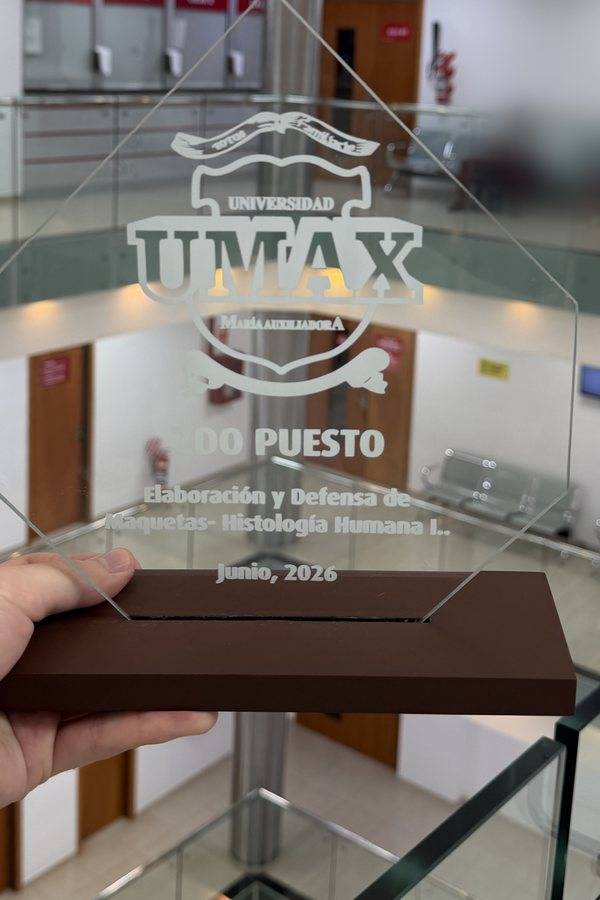
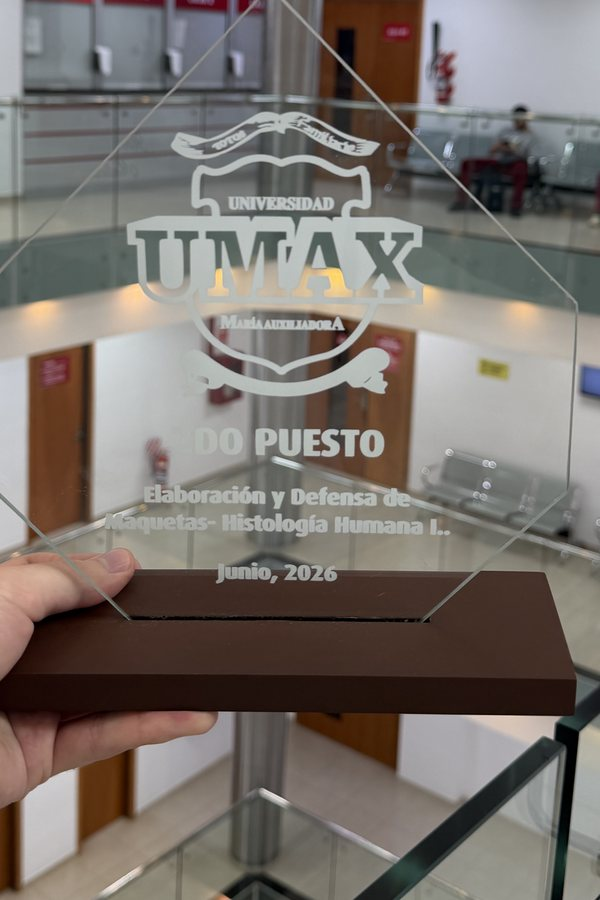
Remove blur from award photo

Changed region(s): [[0.78, 0.0933, 1.0, 0.2489], [0.78, 0.2178, 0.87, 0.2489], [0.75, 0.1867, 0.78, 0.2178]]

diff --git a/es.html b/es.html
@@ -246,7 +246,7 @@ footer a:hover{color:var(--navy)}
 </div></section>
 
 <section class="sec strip" aria-label="Photos"><div class="wrap">
-  <div class="strip-row"><figure><img src="images/strip-tower-600.jpg?v=3" srcset="images/strip-tower-600.jpg?v=3 600w, images/strip-tower-900.jpg?v=3 900w" sizes="(min-width:760px) 240px, 70vw" width="600" height="900" alt="Render de Park Lofts Tower en Asunción, 100 metros de altura" loading="lazy" decoding="async"><figcaption>Park Lofts Tower, render &middot; 100&nbsp;m de altura, 7.000&nbsp;m&sup2;</figcaption></figure><figure><img src="images/strip-rohbau-600.jpg?v=3" srcset="images/strip-rohbau-600.jpg?v=3 600w, images/strip-rohbau-900.jpg?v=3 900w" sizes="(min-width:760px) 240px, 70vw" width="600" height="900" alt="Park Lofts Recoleta en Asunción, en obra gruesa" loading="lazy" decoding="async"><figcaption>Park Lofts Recoleta, obra gruesa</figcaption></figure><figure><img src="images/strip-site-600.jpg?v=3" srcset="images/strip-site-600.jpg?v=3 600w, images/strip-site-900.jpg?v=3 900w" sizes="(min-width:760px) 240px, 70vw" width="600" height="900" alt="Robin Loths en la obra de Park Lofts Recoleta en Asunción" loading="lazy" decoding="async"><figcaption>Park Lofts Recoleta, en obra en Asunci&oacute;n</figcaption></figure><figure><img src="images/strip-coat-600.jpg?v=3" srcset="images/strip-coat-600.jpg?v=3 600w, images/strip-coat-900.jpg?v=3 900w" sizes="(min-width:760px) 240px, 70vw" width="600" height="900" alt="Robin Loths con bata blanca y libros de medicina" loading="lazy" decoding="async"><figcaption>Estudiante de Medicina desde 2026</figcaption></figure><figure><img src="images/strip-defensa-600.jpg?v=3" srcset="images/strip-defensa-600.jpg?v=3 600w, images/strip-defensa-900.jpg?v=3 900w" sizes="(min-width:760px) 240px, 70vw" width="600" height="900" alt="Robin Loths defiende su proyecto de Histología ante el decano de la Facultad de Medicina" loading="lazy" decoding="async"><figcaption>Defensa en Histolog&iacute;a ante el decano de la Facultad de Medicina</figcaption></figure><figure><img src="images/strip-award-600.jpg?v=3" srcset="images/strip-award-600.jpg?v=3 600w, images/strip-award-900.jpg?v=3 900w" sizes="(min-width:760px) 240px, 70vw" width="600" height="900" alt="Distinción de la UMAX por el segundo puesto en Histología Humana, junio de 2026" loading="lazy" decoding="async"><figcaption>Segundo puesto, Histolog&iacute;a Humana, junio de 2026</figcaption></figure></div>
+  <div class="strip-row"><figure><img src="images/strip-tower-600.jpg?v=4" srcset="images/strip-tower-600.jpg?v=4 600w, images/strip-tower-900.jpg?v=4 900w" sizes="(min-width:760px) 240px, 70vw" width="600" height="900" alt="Render de Park Lofts Tower en Asunción, 100 metros de altura" loading="lazy" decoding="async"><figcaption>Park Lofts Tower, render &middot; 100&nbsp;m de altura, 7.000&nbsp;m&sup2;</figcaption></figure><figure><img src="images/strip-rohbau-600.jpg?v=4" srcset="images/strip-rohbau-600.jpg?v=4 600w, images/strip-rohbau-900.jpg?v=4 900w" sizes="(min-width:760px) 240px, 70vw" width="600" height="900" alt="Park Lofts Recoleta en Asunción, en obra gruesa" loading="lazy" decoding="async"><figcaption>Park Lofts Recoleta, obra gruesa</figcaption></figure><figure><img src="images/strip-site-600.jpg?v=4" srcset="images/strip-site-600.jpg?v=4 600w, images/strip-site-900.jpg?v=4 900w" sizes="(min-width:760px) 240px, 70vw" width="600" height="900" alt="Robin Loths en la obra de Park Lofts Recoleta en Asunción" loading="lazy" decoding="async"><figcaption>Park Lofts Recoleta, en obra en Asunci&oacute;n</figcaption></figure><figure><img src="images/strip-coat-600.jpg?v=4" srcset="images/strip-coat-600.jpg?v=4 600w, images/strip-coat-900.jpg?v=4 900w" sizes="(min-width:760px) 240px, 70vw" width="600" height="900" alt="Robin Loths con bata blanca y libros de medicina" loading="lazy" decoding="async"><figcaption>Estudiante de Medicina desde 2026</figcaption></figure><figure><img src="images/strip-defensa-600.jpg?v=4" srcset="images/strip-defensa-600.jpg?v=4 600w, images/strip-defensa-900.jpg?v=4 900w" sizes="(min-width:760px) 240px, 70vw" width="600" height="900" alt="Robin Loths defiende su proyecto de Histología ante el decano de la Facultad de Medicina" loading="lazy" decoding="async"><figcaption>Defensa en Histolog&iacute;a ante el decano de la Facultad de Medicina</figcaption></figure><figure><img src="images/strip-award-600.jpg?v=4" srcset="images/strip-award-600.jpg?v=4 600w, images/strip-award-900.jpg?v=4 900w" sizes="(min-width:760px) 240px, 70vw" width="600" height="900" alt="Distinción de la UMAX por el segundo puesto en Histología Humana, junio de 2026" loading="lazy" decoding="async"><figcaption>Segundo puesto, Histolog&iacute;a Humana, junio de 2026</figcaption></figure></div>
 </div></section>
 
 <section class="sec" id="path"><div class="wrap">

diff --git a/de.html b/de.html
@@ -246,7 +246,7 @@ footer a:hover{color:var(--navy)}
 </div></section>
 
 <section class="sec strip" aria-label="Photos"><div class="wrap">
-  <div class="strip-row"><figure><img src="images/strip-tower-600.jpg?v=3" srcset="images/strip-tower-600.jpg?v=3 600w, images/strip-tower-900.jpg?v=3 900w" sizes="(min-width:760px) 240px, 70vw" width="600" height="900" alt="Visualisierung des Park Lofts Tower in Asunción, 100 Meter hoch" loading="lazy" decoding="async"><figcaption>Park Lofts Tower, Visualisierung &middot; 100&nbsp;m H&ouml;he, 7.000&nbsp;m&sup2;</figcaption></figure><figure><img src="images/strip-rohbau-600.jpg?v=3" srcset="images/strip-rohbau-600.jpg?v=3 600w, images/strip-rohbau-900.jpg?v=3 900w" sizes="(min-width:760px) 240px, 70vw" width="600" height="900" alt="Park Lofts Recoleta in Asunción im Rohbau" loading="lazy" decoding="async"><figcaption>Park Lofts Recoleta, Rohbau</figcaption></figure><figure><img src="images/strip-site-600.jpg?v=3" srcset="images/strip-site-600.jpg?v=3 600w, images/strip-site-900.jpg?v=3 900w" sizes="(min-width:760px) 240px, 70vw" width="600" height="900" alt="Robin Loths auf der Baustelle von Park Lofts Recoleta in Asunción" loading="lazy" decoding="async"><figcaption>Park Lofts Recoleta, auf der Baustelle in Asunci&oacute;n</figcaption></figure><figure><img src="images/strip-coat-600.jpg?v=3" srcset="images/strip-coat-600.jpg?v=3 600w, images/strip-coat-900.jpg?v=3 900w" sizes="(min-width:760px) 240px, 70vw" width="600" height="900" alt="Robin Loths im Arztkittel mit medizinischen Lehrbüchern" loading="lazy" decoding="async"><figcaption>Medizinstudent seit 2026</figcaption></figure><figure><img src="images/strip-defensa-600.jpg?v=3" srcset="images/strip-defensa-600.jpg?v=3 600w, images/strip-defensa-900.jpg?v=3 900w" sizes="(min-width:760px) 240px, 70vw" width="600" height="900" alt="Robin Loths verteidigt sein Histologie-Projekt vor dem Dekan der Medizinischen Fakultät" loading="lazy" decoding="async"><figcaption>Verteidigung in Histologie vor dem Dekan der Medizinischen Fakult&auml;t</figcaption></figure><figure><img src="images/strip-award-600.jpg?v=3" srcset="images/strip-award-600.jpg?v=3 600w, images/strip-award-900.jpg?v=3 900w" sizes="(min-width:760px) 240px, 70vw" width="600" height="900" alt="UMAX-Auszeichnung für den zweiten Platz in Humanhistologie, Juni 2026" loading="lazy" decoding="async"><figcaption>Zweiter Platz, Humanhistologie, Juni 2026</figcaption></figure></div>
+  <div class="strip-row"><figure><img src="images/strip-tower-600.jpg?v=4" srcset="images/strip-tower-600.jpg?v=4 600w, images/strip-tower-900.jpg?v=4 900w" sizes="(min-width:760px) 240px, 70vw" width="600" height="900" alt="Visualisierung des Park Lofts Tower in Asunción, 100 Meter hoch" loading="lazy" decoding="async"><figcaption>Park Lofts Tower, Visualisierung &middot; 100&nbsp;m H&ouml;he, 7.000&nbsp;m&sup2;</figcaption></figure><figure><img src="images/strip-rohbau-600.jpg?v=4" srcset="images/strip-rohbau-600.jpg?v=4 600w, images/strip-rohbau-900.jpg?v=4 900w" sizes="(min-width:760px) 240px, 70vw" width="600" height="900" alt="Park Lofts Recoleta in Asunción im Rohbau" loading="lazy" decoding="async"><figcaption>Park Lofts Recoleta, Rohbau</figcaption></figure><figure><img src="images/strip-site-600.jpg?v=4" srcset="images/strip-site-600.jpg?v=4 600w, images/strip-site-900.jpg?v=4 900w" sizes="(min-width:760px) 240px, 70vw" width="600" height="900" alt="Robin Loths auf der Baustelle von Park Lofts Recoleta in Asunción" loading="lazy" decoding="async"><figcaption>Park Lofts Recoleta, auf der Baustelle in Asunci&oacute;n</figcaption></figure><figure><img src="images/strip-coat-600.jpg?v=4" srcset="images/strip-coat-600.jpg?v=4 600w, images/strip-coat-900.jpg?v=4 900w" sizes="(min-width:760px) 240px, 70vw" width="600" height="900" alt="Robin Loths im Arztkittel mit medizinischen Lehrbüchern" loading="lazy" decoding="async"><figcaption>Medizinstudent seit 2026</figcaption></figure><figure><img src="images/strip-defensa-600.jpg?v=4" srcset="images/strip-defensa-600.jpg?v=4 600w, images/strip-defensa-900.jpg?v=4 900w" sizes="(min-width:760px) 240px, 70vw" width="600" height="900" alt="Robin Loths verteidigt sein Histologie-Projekt vor dem Dekan der Medizinischen Fakultät" loading="lazy" decoding="async"><figcaption>Verteidigung in Histologie vor dem Dekan der Medizinischen Fakult&auml;t</figcaption></figure><figure><img src="images/strip-award-600.jpg?v=4" srcset="images/strip-award-600.jpg?v=4 600w, images/strip-award-900.jpg?v=4 900w" sizes="(min-width:760px) 240px, 70vw" width="600" height="900" alt="UMAX-Auszeichnung für den zweiten Platz in Humanhistologie, Juni 2026" loading="lazy" decoding="async"><figcaption>Zweiter Platz, Humanhistologie, Juni 2026</figcaption></figure></div>
 </div></section>
 
 <section class="sec" id="path"><div class="wrap">

diff --git a/pt.html b/pt.html
@@ -246,7 +246,7 @@ footer a:hover{color:var(--navy)}
 </div></section>
 
 <section class="sec strip" aria-label="Photos"><div class="wrap">
-  <div class="strip-row"><figure><img src="images/strip-tower-600.jpg?v=3" srcset="images/strip-tower-600.jpg?v=3 600w, images/strip-tower-900.jpg?v=3 900w" sizes="(min-width:760px) 240px, 70vw" width="600" height="900" alt="Render do Park Lofts Tower em Assunção, 100 metros de altura" loading="lazy" decoding="async"><figcaption>Park Lofts Tower, render &middot; 100&nbsp;m de altura, 7.000&nbsp;m&sup2;</figcaption></figure><figure><img src="images/strip-rohbau-600.jpg?v=3" srcset="images/strip-rohbau-600.jpg?v=3 600w, images/strip-rohbau-900.jpg?v=3 900w" sizes="(min-width:760px) 240px, 70vw" width="600" height="900" alt="Park Lofts Recoleta em Assunção, na fase de estrutura" loading="lazy" decoding="async"><figcaption>Park Lofts Recoleta, fase de estrutura</figcaption></figure><figure><img src="images/strip-site-600.jpg?v=3" srcset="images/strip-site-600.jpg?v=3 600w, images/strip-site-900.jpg?v=3 900w" sizes="(min-width:760px) 240px, 70vw" width="600" height="900" alt="Robin Loths na obra do Park Lofts Recoleta em Assunção" loading="lazy" decoding="async"><figcaption>Park Lofts Recoleta, na obra em Assun&ccedil;&atilde;o</figcaption></figure><figure><img src="images/strip-coat-600.jpg?v=3" srcset="images/strip-coat-600.jpg?v=3 600w, images/strip-coat-900.jpg?v=3 900w" sizes="(min-width:760px) 240px, 70vw" width="600" height="900" alt="Robin Loths de jaleco com livros de medicina" loading="lazy" decoding="async"><figcaption>Estudante de Medicina desde 2026</figcaption></figure><figure><img src="images/strip-defensa-600.jpg?v=3" srcset="images/strip-defensa-600.jpg?v=3 600w, images/strip-defensa-900.jpg?v=3 900w" sizes="(min-width:760px) 240px, 70vw" width="600" height="900" alt="Robin Loths defende seu projeto de Histologia perante o decano da Faculdade de Medicina" loading="lazy" decoding="async"><figcaption>Defesa em Histologia perante o decano da Faculdade de Medicina</figcaption></figure><figure><img src="images/strip-award-600.jpg?v=3" srcset="images/strip-award-600.jpg?v=3 600w, images/strip-award-900.jpg?v=3 900w" sizes="(min-width:760px) 240px, 70vw" width="600" height="900" alt="Prêmio da UMAX pelo segundo lugar em Histologia Humana, junho de 2026" loading="lazy" decoding="async"><figcaption>Segundo lugar, Histologia Humana, junho de 2026</figcaption></figure></div>
+  <div class="strip-row"><figure><img src="images/strip-tower-600.jpg?v=4" srcset="images/strip-tower-600.jpg?v=4 600w, images/strip-tower-900.jpg?v=4 900w" sizes="(min-width:760px) 240px, 70vw" width="600" height="900" alt="Render do Park Lofts Tower em Assunção, 100 metros de altura" loading="lazy" decoding="async"><figcaption>Park Lofts Tower, render &middot; 100&nbsp;m de altura, 7.000&nbsp;m&sup2;</figcaption></figure><figure><img src="images/strip-rohbau-600.jpg?v=4" srcset="images/strip-rohbau-600.jpg?v=4 600w, images/strip-rohbau-900.jpg?v=4 900w" sizes="(min-width:760px) 240px, 70vw" width="600" height="900" alt="Park Lofts Recoleta em Assunção, na fase de estrutura" loading="lazy" decoding="async"><figcaption>Park Lofts Recoleta, fase de estrutura</figcaption></figure><figure><img src="images/strip-site-600.jpg?v=4" srcset="images/strip-site-600.jpg?v=4 600w, images/strip-site-900.jpg?v=4 900w" sizes="(min-width:760px) 240px, 70vw" width="600" height="900" alt="Robin Loths na obra do Park Lofts Recoleta em Assunção" loading="lazy" decoding="async"><figcaption>Park Lofts Recoleta, na obra em Assun&ccedil;&atilde;o</figcaption></figure><figure><img src="images/strip-coat-600.jpg?v=4" srcset="images/strip-coat-600.jpg?v=4 600w, images/strip-coat-900.jpg?v=4 900w" sizes="(min-width:760px) 240px, 70vw" width="600" height="900" alt="Robin Loths de jaleco com livros de medicina" loading="lazy" decoding="async"><figcaption>Estudante de Medicina desde 2026</figcaption></figure><figure><img src="images/strip-defensa-600.jpg?v=4" srcset="images/strip-defensa-600.jpg?v=4 600w, images/strip-defensa-900.jpg?v=4 900w" sizes="(min-width:760px) 240px, 70vw" width="600" height="900" alt="Robin Loths defende seu projeto de Histologia perante o decano da Faculdade de Medicina" loading="lazy" decoding="async"><figcaption>Defesa em Histologia perante o decano da Faculdade de Medicina</figcaption></figure><figure><img src="images/strip-award-600.jpg?v=4" srcset="images/strip-award-600.jpg?v=4 600w, images/strip-award-900.jpg?v=4 900w" sizes="(min-width:760px) 240px, 70vw" width="600" height="900" alt="Prêmio da UMAX pelo segundo lugar em Histologia Humana, junho de 2026" loading="lazy" decoding="async"><figcaption>Segundo lugar, Histologia Humana, junho de 2026</figcaption></figure></div>
 </div></section>
 
 <section class="sec" id="path"><div class="wrap">

diff --git a/index.html b/index.html
@@ -246,7 +246,7 @@ footer a:hover{color:var(--navy)}
 </div></section>
 
 <section class="sec strip" aria-label="Photos"><div class="wrap">
-  <div class="strip-row"><figure><img src="images/strip-tower-600.jpg?v=3" srcset="images/strip-tower-600.jpg?v=3 600w, images/strip-tower-900.jpg?v=3 900w" sizes="(min-width:760px) 240px, 70vw" width="600" height="900" alt="Rendering of Park Lofts Tower in Asunción, 100 metres tall" loading="lazy" decoding="async"><figcaption>Park Lofts Tower, rendering &middot; 100&nbsp;m tall, 7,000&nbsp;m&sup2;</figcaption></figure><figure><img src="images/strip-rohbau-600.jpg?v=3" srcset="images/strip-rohbau-600.jpg?v=3 600w, images/strip-rohbau-900.jpg?v=3 900w" sizes="(min-width:760px) 240px, 70vw" width="600" height="900" alt="Park Lofts Recoleta in Asunción during shell construction" loading="lazy" decoding="async"><figcaption>Park Lofts Recoleta, shell construction</figcaption></figure><figure><img src="images/strip-site-600.jpg?v=3" srcset="images/strip-site-600.jpg?v=3 600w, images/strip-site-900.jpg?v=3 900w" sizes="(min-width:760px) 240px, 70vw" width="600" height="900" alt="Robin Loths on the Park Lofts Recoleta construction site in Asunción" loading="lazy" decoding="async"><figcaption>Park Lofts Recoleta, on site in Asunci&oacute;n</figcaption></figure><figure><img src="images/strip-coat-600.jpg?v=3" srcset="images/strip-coat-600.jpg?v=3 600w, images/strip-coat-900.jpg?v=3 900w" sizes="(min-width:760px) 240px, 70vw" width="600" height="900" alt="Robin Loths in a white coat with medical textbooks" loading="lazy" decoding="async"><figcaption>Medical student since 2026</figcaption></figure><figure><img src="images/strip-defensa-600.jpg?v=3" srcset="images/strip-defensa-600.jpg?v=3 600w, images/strip-defensa-900.jpg?v=3 900w" sizes="(min-width:760px) 240px, 70vw" width="600" height="900" alt="Robin Loths presenting his histology project to the Dean of the Faculty of Medicine" loading="lazy" decoding="async"><figcaption>Histology defence before the Dean of the Faculty of Medicine</figcaption></figure><figure><img src="images/strip-award-600.jpg?v=3" srcset="images/strip-award-600.jpg?v=3 600w, images/strip-award-900.jpg?v=3 900w" sizes="(min-width:760px) 240px, 70vw" width="600" height="900" alt="UMAX award for second place in human histology, June 2026" loading="lazy" decoding="async"><figcaption>Second place, Human Histology, June 2026</figcaption></figure></div>
+  <div class="strip-row"><figure><img src="images/strip-tower-600.jpg?v=4" srcset="images/strip-tower-600.jpg?v=4 600w, images/strip-tower-900.jpg?v=4 900w" sizes="(min-width:760px) 240px, 70vw" width="600" height="900" alt="Rendering of Park Lofts Tower in Asunción, 100 metres tall" loading="lazy" decoding="async"><figcaption>Park Lofts Tower, rendering &middot; 100&nbsp;m tall, 7,000&nbsp;m&sup2;</figcaption></figure><figure><img src="images/strip-rohbau-600.jpg?v=4" srcset="images/strip-rohbau-600.jpg?v=4 600w, images/strip-rohbau-900.jpg?v=4 900w" sizes="(min-width:760px) 240px, 70vw" width="600" height="900" alt="Park Lofts Recoleta in Asunción during shell construction" loading="lazy" decoding="async"><figcaption>Park Lofts Recoleta, shell construction</figcaption></figure><figure><img src="images/strip-site-600.jpg?v=4" srcset="images/strip-site-600.jpg?v=4 600w, images/strip-site-900.jpg?v=4 900w" sizes="(min-width:760px) 240px, 70vw" width="600" height="900" alt="Robin Loths on the Park Lofts Recoleta construction site in Asunción" loading="lazy" decoding="async"><figcaption>Park Lofts Recoleta, on site in Asunci&oacute;n</figcaption></figure><figure><img src="images/strip-coat-600.jpg?v=4" srcset="images/strip-coat-600.jpg?v=4 600w, images/strip-coat-900.jpg?v=4 900w" sizes="(min-width:760px) 240px, 70vw" width="600" height="900" alt="Robin Loths in a white coat with medical textbooks" loading="lazy" decoding="async"><figcaption>Medical student since 2026</figcaption></figure><figure><img src="images/strip-defensa-600.jpg?v=4" srcset="images/strip-defensa-600.jpg?v=4 600w, images/strip-defensa-900.jpg?v=4 900w" sizes="(min-width:760px) 240px, 70vw" width="600" height="900" alt="Robin Loths presenting his histology project to the Dean of the Faculty of Medicine" loading="lazy" decoding="async"><figcaption>Histology defence before the Dean of the Faculty of Medicine</figcaption></figure><figure><img src="images/strip-award-600.jpg?v=4" srcset="images/strip-award-600.jpg?v=4 600w, images/strip-award-900.jpg?v=4 900w" sizes="(min-width:760px) 240px, 70vw" width="600" height="900" alt="UMAX award for second place in human histology, June 2026" loading="lazy" decoding="async"><figcaption>Second place, Human Histology, June 2026</figcaption></figure></div>
 </div></section>
 
 <section class="sec" id="path"><div class="wrap">
